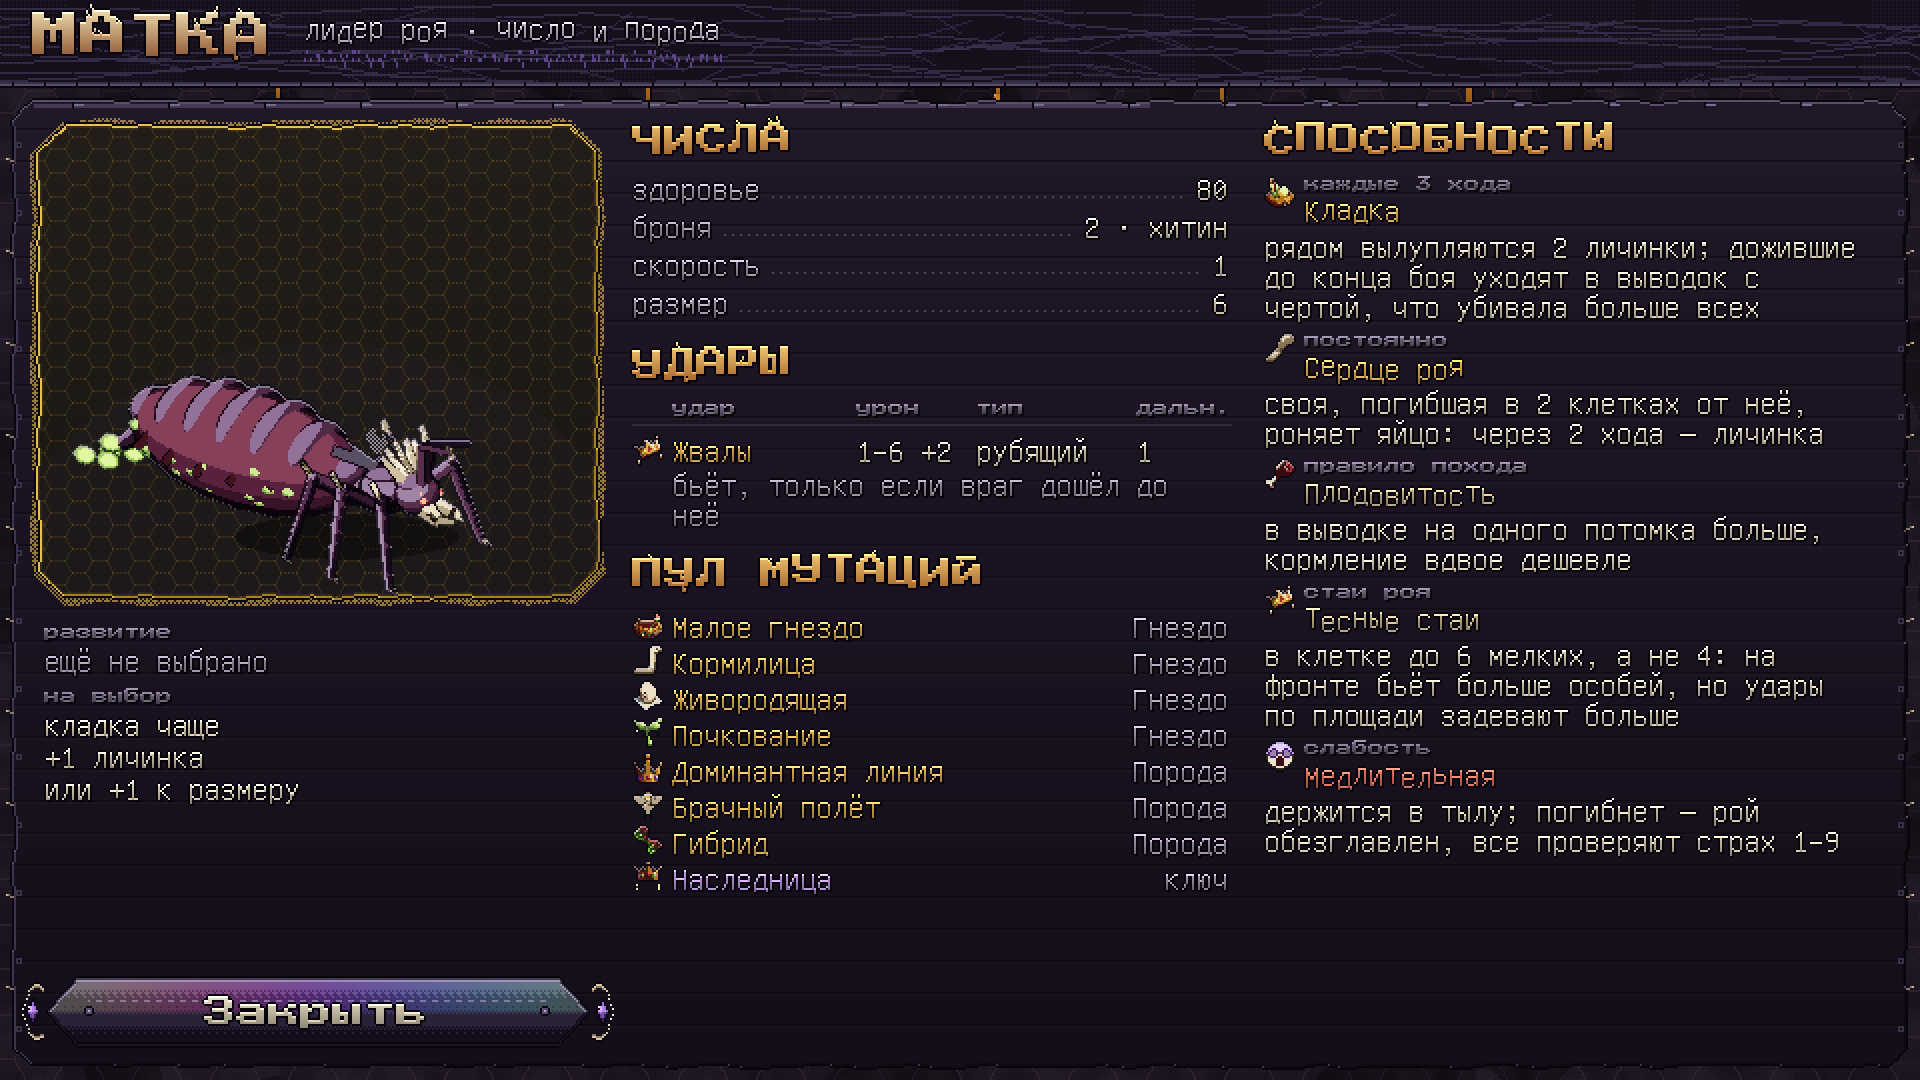
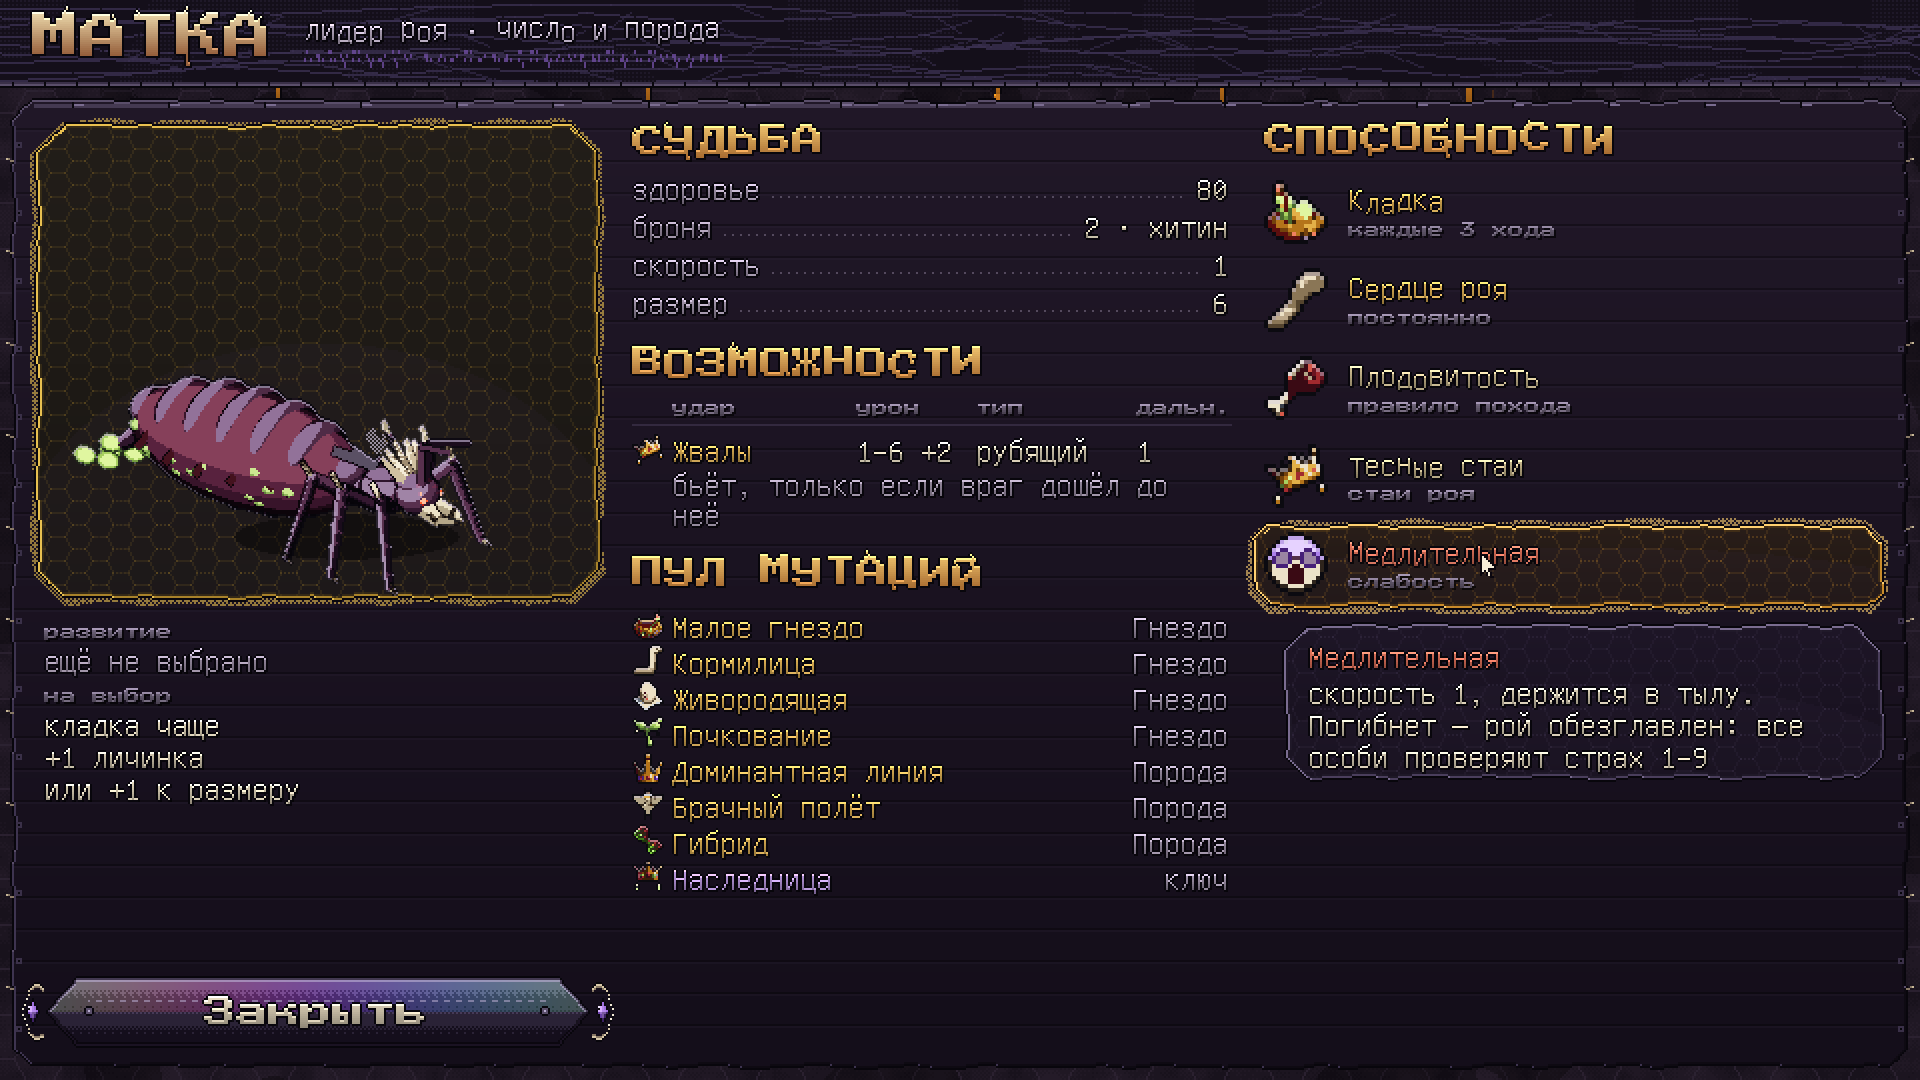
Карточка роя: Судьба и Возможности, способности столбиком без описания — описание по наведению
Claude-Session: https://claude.ai/code/session_01Bh6a99SKMjjKSinDnrtssC

diff --git a/tools/sprites/swarm_hud.py b/tools/sprites/swarm_hud.py
@@ -929,7 +929,7 @@ def big_card(spec, name):
     letters(sc, "Закрыть", 159, HH - 42, "title", 16, col=INK, align="center")
     # middle: the numbers, then the attacks — each its own row
     x0, x1 = 316, 616
-    heading(sc, "ЧИСЛА", x0, 62, seed=3)
+    heading(sc, "СУДЬБА", x0, 62, seed=3)
     y = 86
     for lab, val in spec["stats"]:
         letters(sc, lab, x0, y, "text", 16, col=MUTED)
@@ -938,7 +938,7 @@ def big_card(spec, name):
         letters(sc, val, x1, y, "text", 16, col=INK, align="right")
         y += 19
     y += 12
-    heading(sc, "УДАРЫ", x0, y, seed=4)
+    heading(sc, "ВОЗМОЖНОСТИ", x0, y, seed=4)
     y += 26
     cols = (x0 + 20, x0 + 112, x0 + 172, x0 + 252)
     for cx, lab in zip(cols, ("удар", "урон", "тип", "дальн.")):
@@ -966,12 +966,29 @@ def big_card(spec, name):
             if note:
                 letters(sc, note, x1, y + 1, "text", 16, col=MUTED, align="right")
             y += 18
-    # right: what it can, and what it can't
-    x0 = 632
+    # right: what it can and what it can't — a column of names; the text shows when the mouse is over one
+    x0, x1 = 632, WW - 18
     heading(sc, spec.get("right", "СПОСОБНОСТИ"), x0, 62, seed=5)
-    y = 88
-    for key, lab, nm, desc, col in spec["abilities"]:
-        y = section(sc, x0, y, WW - 24 - x0, key, lab, nm, desc, col=col, seed=len(nm))
+    y = 90
+    hov = spec.get("hover", len(spec["abilities"]) - 1)
+    for i, (key, lab, nm, desc, col) in enumerate(spec["abilities"]):
+        if i == hov:
+            UI.cell(sc, x0 - 6, y - 4, x1, y + 38, "hi")
+        icon(sc, key, x0, y, 2)
+        letters(sc, nm, x0 + 42, y + 2, "text", 16, col=col, jitter=1, seed=len(nm))
+        letters(sc, lab, x0 + 42, y + 21, "title", 8, col=PALE, outline=False)
+        if i == hov:
+            hy, hx = y, x0 + 42 + UI.text_width(nm, "text", 16)
+        y += 44
+    # the hovered one: its text in a tooltip under the cursor
+    key, lab, nm, desc, col = spec["abilities"][hov]
+    lines = wrap(desc, x1 - x0 - 40)
+    tx0, ty0 = x0 + 10, hy + 46
+    UI.cell(sc, tx0, ty0, x1, ty0 + 30 + len(lines) * 16, "normal")
+    letters(sc, nm, tx0 + 12, ty0 + 8, "text", 16, col=col)
+    for j, ln in enumerate(lines):
+        letters(sc, ln, tx0 + 12, ty0 + 26 + j * 16, "text", 16, col=INK)
+    cursor(sc, int(hx) - 30, int(hy) + 10)
     img = sc.image(S)
     UI.WOBBLE[0] = 0.0
     img.save(out(name))
@@ -995,8 +1012,10 @@ def cards():
                    ("wings", "деталь", "Крылья", "перепархивает: свой строй её не держит, проходит над своими", GOLD),
                    ("m_blister", "мутация · общий пул", "Нарывник", "кто ранит её вплотную, обжигается: его удар слабее", SILVER),
                    ("evo_vise", "эволюция формы", "Клешни-тиски", "держит соседнего врага, клешни бьют дробящим", (150, 220, 120)),
-                   ("ant", "класс", "Хитин · Стая · Пожирание", "держит рубящий, ломается от дробящего; смелее рядом со своими; съев убитого, лечится", INK),
-                   ("fear", "слабость", "Медленнее других", "скорпионы приходят к бою последними", RED)]),
+                   ("carapace", "класс", "Хитин", "держит рубящий, ломается от дробящего", INK),
+                   ("ant", "класс", "Стая", "+1 к боевому духу за каждого своего соседа, до +4: вместе смелые, поодиночке бегут", INK),
+                   ("biomass", "класс", "Пожирание", "убив врага, съедает труп и лечится на четверть здоровья; после боя это биомасса", INK),
+                   ("fear", "слабость", "Медленнее других", "скорость 2, а не 3, как у других рабочих: скорпионы приходят к бою последними", RED)]),
         "swarm_card.png")
     big_card(dict(
         seed=57, title="МАТКА", sub="лидер роя · число и порода", cell="mut",
@@ -1013,7 +1032,7 @@ def cards():
                    ("larva", "постоянно", "Сердце роя", "своя, погибшая в 2 клетках от неё, роняет яйцо: через 2 хода — личинка", GOLD),
                    ("feed", "правило похода", "Плодовитость", "в выводке на одного потомка больше, кормление вдвое дешевле", (214, 196, 150)),
                    ("matka", "стаи роя", "Тесные стаи", "в клетке до 6 мелких, а не 4: на фронте бьёт больше особей, но удары по площади задевают больше", (214, 196, 150)),
-                   ("fear", "слабость", "Медлительная", "держится в тылу; погибнет — рой обезглавлен, все проверяют страх 1–9", RED)]),
+                   ("fear", "слабость", "Медлительная", "скорость 1, держится в тылу. Погибнет — рой обезглавлен: все особи проверяют страх 1–9", RED)]),
         "swarm_card_leader.png")
 
 

diff --git a/docs/CONCEPT.md b/docs/CONCEPT.md
@@ -883,11 +883,12 @@
 
 ![Касты и гигантизм](images/swarm_castes.png)
 
-Всё это собрано в карточке особи — большой, на весь экран, как в Conquest of Elysium: числа
-столбиком, каждый удар — своей строкой (урон, тип, дальность и что он делает сверх урона), способность
-формы, деталь, мутация, эволюция, класс и слабость, родители, сколько убила её стая и что она передаст
-потомкам. Карточка открывается в выводке, на расстановке и на паузе в бою. У лидера та же карточка:
-способности с подписью, когда срабатывают, развитие на выбор и его пул мутаций по веткам.
+Всё это собрано в карточке особи — большой, на весь экран, как в Conquest of Elysium: **Судьба** —
+числа столбиком; **Возможности** — каждый удар своей строкой (урон, тип, дальность и что он делает
+сверх урона); **Способности** — столбик иконок с именами (форма, деталь, мутация, эволюция, класс,
+слабость), описание всплывает при наведении мыши. Ещё — родители, сколько убила стая и что особь
+передаст потомкам. Карточка открывается в выводке, на расстановке и на паузе в бою. У лидера та же
+карточка: когда срабатывает каждая способность, развитие на выбор и пул мутаций по веткам.
 
 ![Карточка особи](images/swarm_card.png)
 
